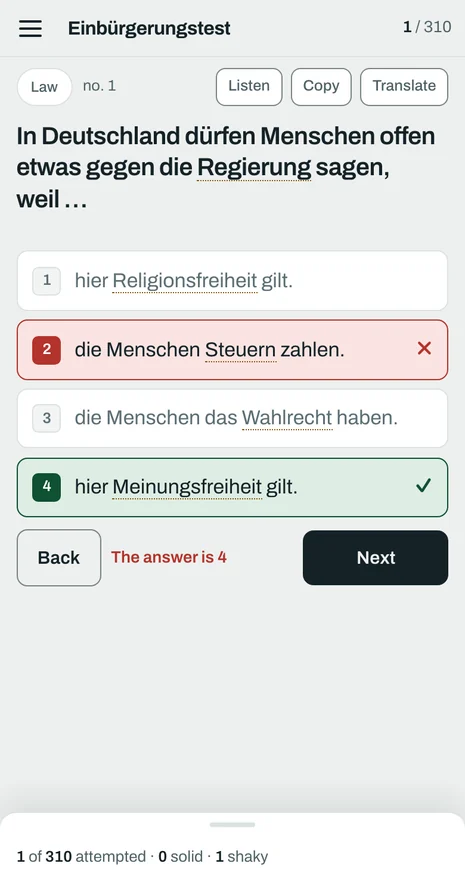
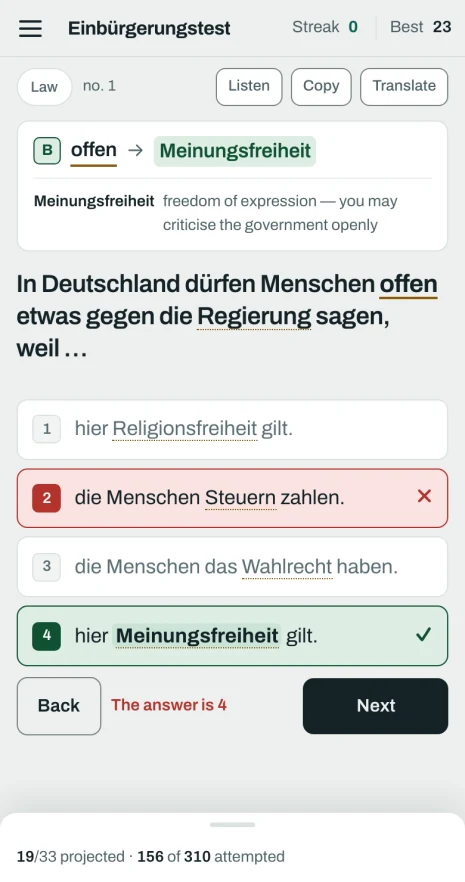
📝 docs(map): screenshots and brand note after the map scale (#12)
* 📝 docs(map): re-shoot the practice and phone screenshots

Both images dated from 2026-09-18 and showed a binary right/wrong map, a
"1 / 310" counter where the streak now sits, and no hook on a miss. Shot
from the running app at 2x and downscaled to the same 1600x900 and
465x882 framing, in light mode, from a seeded learner about halfway
through the catalogue: the desktop map shows slashed reds, dashed evens
and all four greens, and the phone's resting strip a projected score.

The alt text now names the hook, the map's red-to-green scale and the
phone's streak and projection.

* 📝 docs(brand): the map's open item is its marks, not one ΔE

"What is not decided" still said the progress map rested on a single
measurement, ΔE 12.8 between correct and wrong under protanopia. Since
the map became three reds, an even grey and four greens, no red or grey
clears every green under simulated dichromacy, and the states are carried
by a slash and a dash. The open question is whether those read for a real
colour-blind reader at map size.

* 🙈 chore(git): ignore the session worktrees under .claude/

---------

diff --git a/README.md b/README.md
@@ -17,7 +17,7 @@ No build step, no server, no account, no tracking. Open it and it works, includi
 ![Code licence](https://img.shields.io/badge/code-MIT-0B6357?style=flat-square)
 
 <a href="https://jadrizk.github.io/einbuergerungstest-trainer/">
-  <img src="docs/practice.webp" alt="The practice view: a German question with civic terms underlined for English glosses, the wrong answer marked in red and the correct one in green, and a progress map of all 310 questions along the bottom" width="880">
+  <img src="docs/practice.webp" alt="The practice view after a miss: the question's hook above it, the German question with civic terms underlined for English glosses, the wrong answer marked in red and the correct one in green, and a progress map of all 310 questions along the bottom, its cells running from slashed reds through a dashed grey to greens" width="880">
 </a>
 
 </div>
@@ -88,7 +88,7 @@ states. The exam you sit draws 33 of them.
 
 ## On your phone
 
-<img src="docs/mobile.webp" alt="The app on a phone: the controls collapsed behind a menu button, an answered question with the wrong choice in red and the correct one in green, and the progress sheet resting at the bottom" width="300" align="right">
+<img src="docs/mobile.webp" alt="The app on a phone: the controls collapsed behind a menu button, the streak in the top bar, an answered question with its hook, the wrong choice in red and the correct one in green, and the progress sheet resting at the bottom with a projected score" width="300" align="right">
 
 Open the link and use **Add to Home Screen**. It then launches like an app and works with no
 connection.

diff --git a/brand/README.md b/brand/README.md
@@ -102,9 +102,13 @@ Last run: 2026-09-18 — **31 pass · 0 advisory · 0 fail**, and **19 pass · 0
 ## What is not decided
 
 - **Nobody with a colour vision deficiency has seen this.** Every CVD number in
-  `PALETTE.md` is simulated. The progress map rests on a single measurement
-  (ΔE 12.8 between correct and wrong under protanopia) and deserves one real
-  reader. That is the highest-value open item here.
+  `PALETTE.md` is simulated. The progress map runs three reds, an even grey and
+  four greens, and under simulated dichromacy no red or grey clears every green
+  (worst ΔE 3.7 in light, 3.0 in dark, both under protanopia). So the states
+  are carried by shape: a slash on red cells, a dash on the even cell. Whether
+  a slash and a dash at map size actually read for a colour-blind reader is
+  untested, and deserves one real reader. That is the highest-value open item
+  here.
 - **The accent is below the validator's chroma floor** (C 0.078 against 0.1) and
   was inherited rather than chosen against alternatives. It is defended on
   thesis grounds in `PALETTE.md`; no saturated candidate was drawn and compared.
